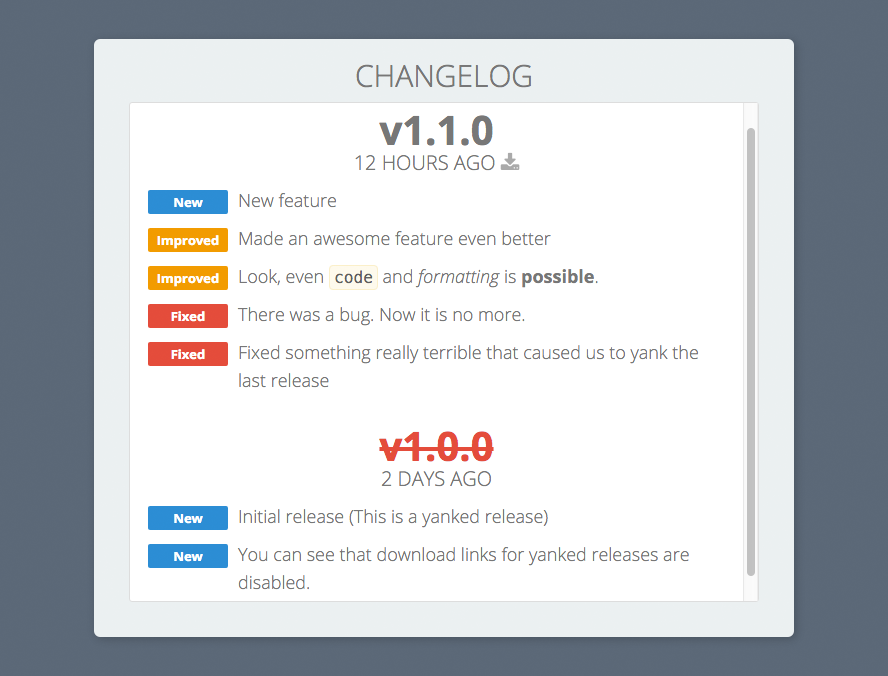
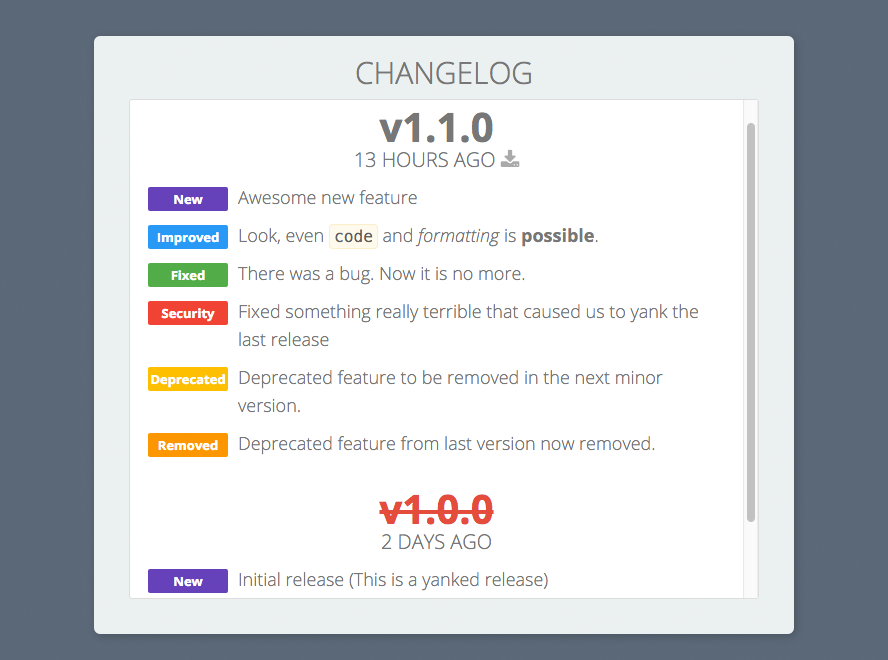
Updated screenshot

diff --git a/demo/CHANGELOG.demo.md b/demo/CHANGELOG.demo.md
@@ -6,10 +6,9 @@ This project adheres to [Semantic Versioning](http://semver.org/).
 [See full Changelog](#)
 
 ### New
-- New feature
+- Awesome new feature
 
 ### Improved
-- Made an awesome feature even better
 - Look, even `code` and *formatting* is **possible**.
 
 ### Deprecated
